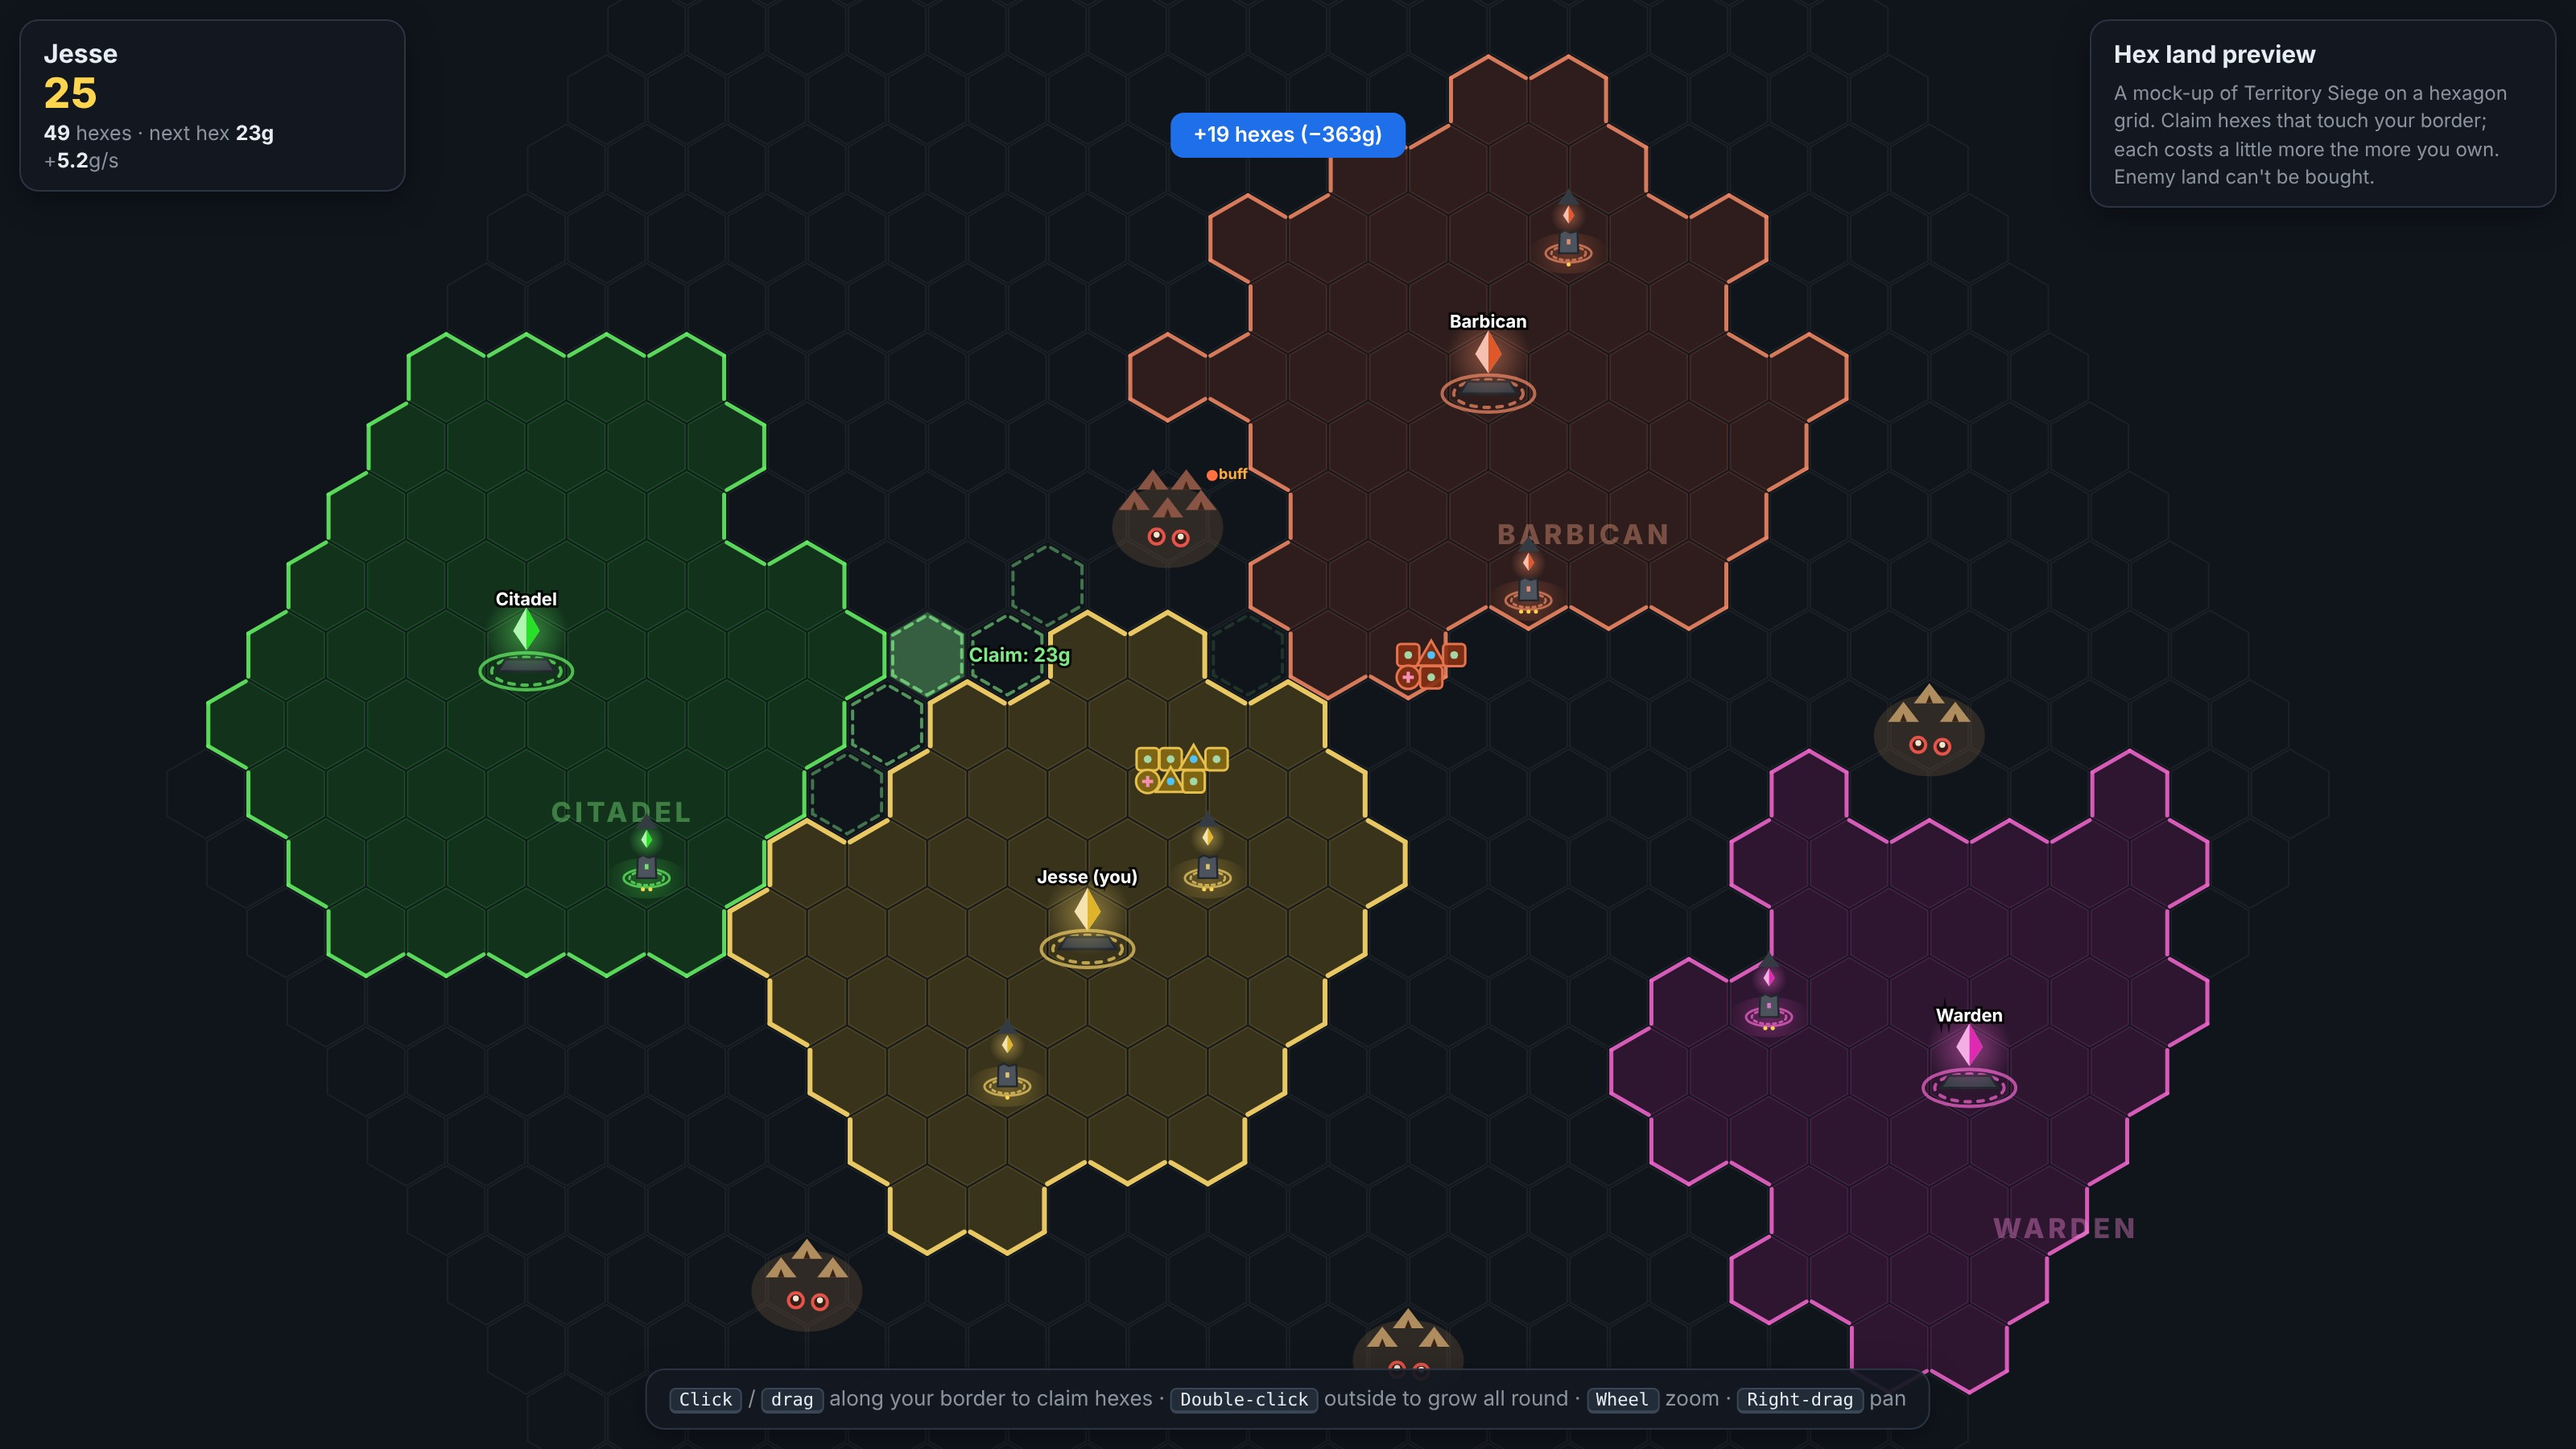
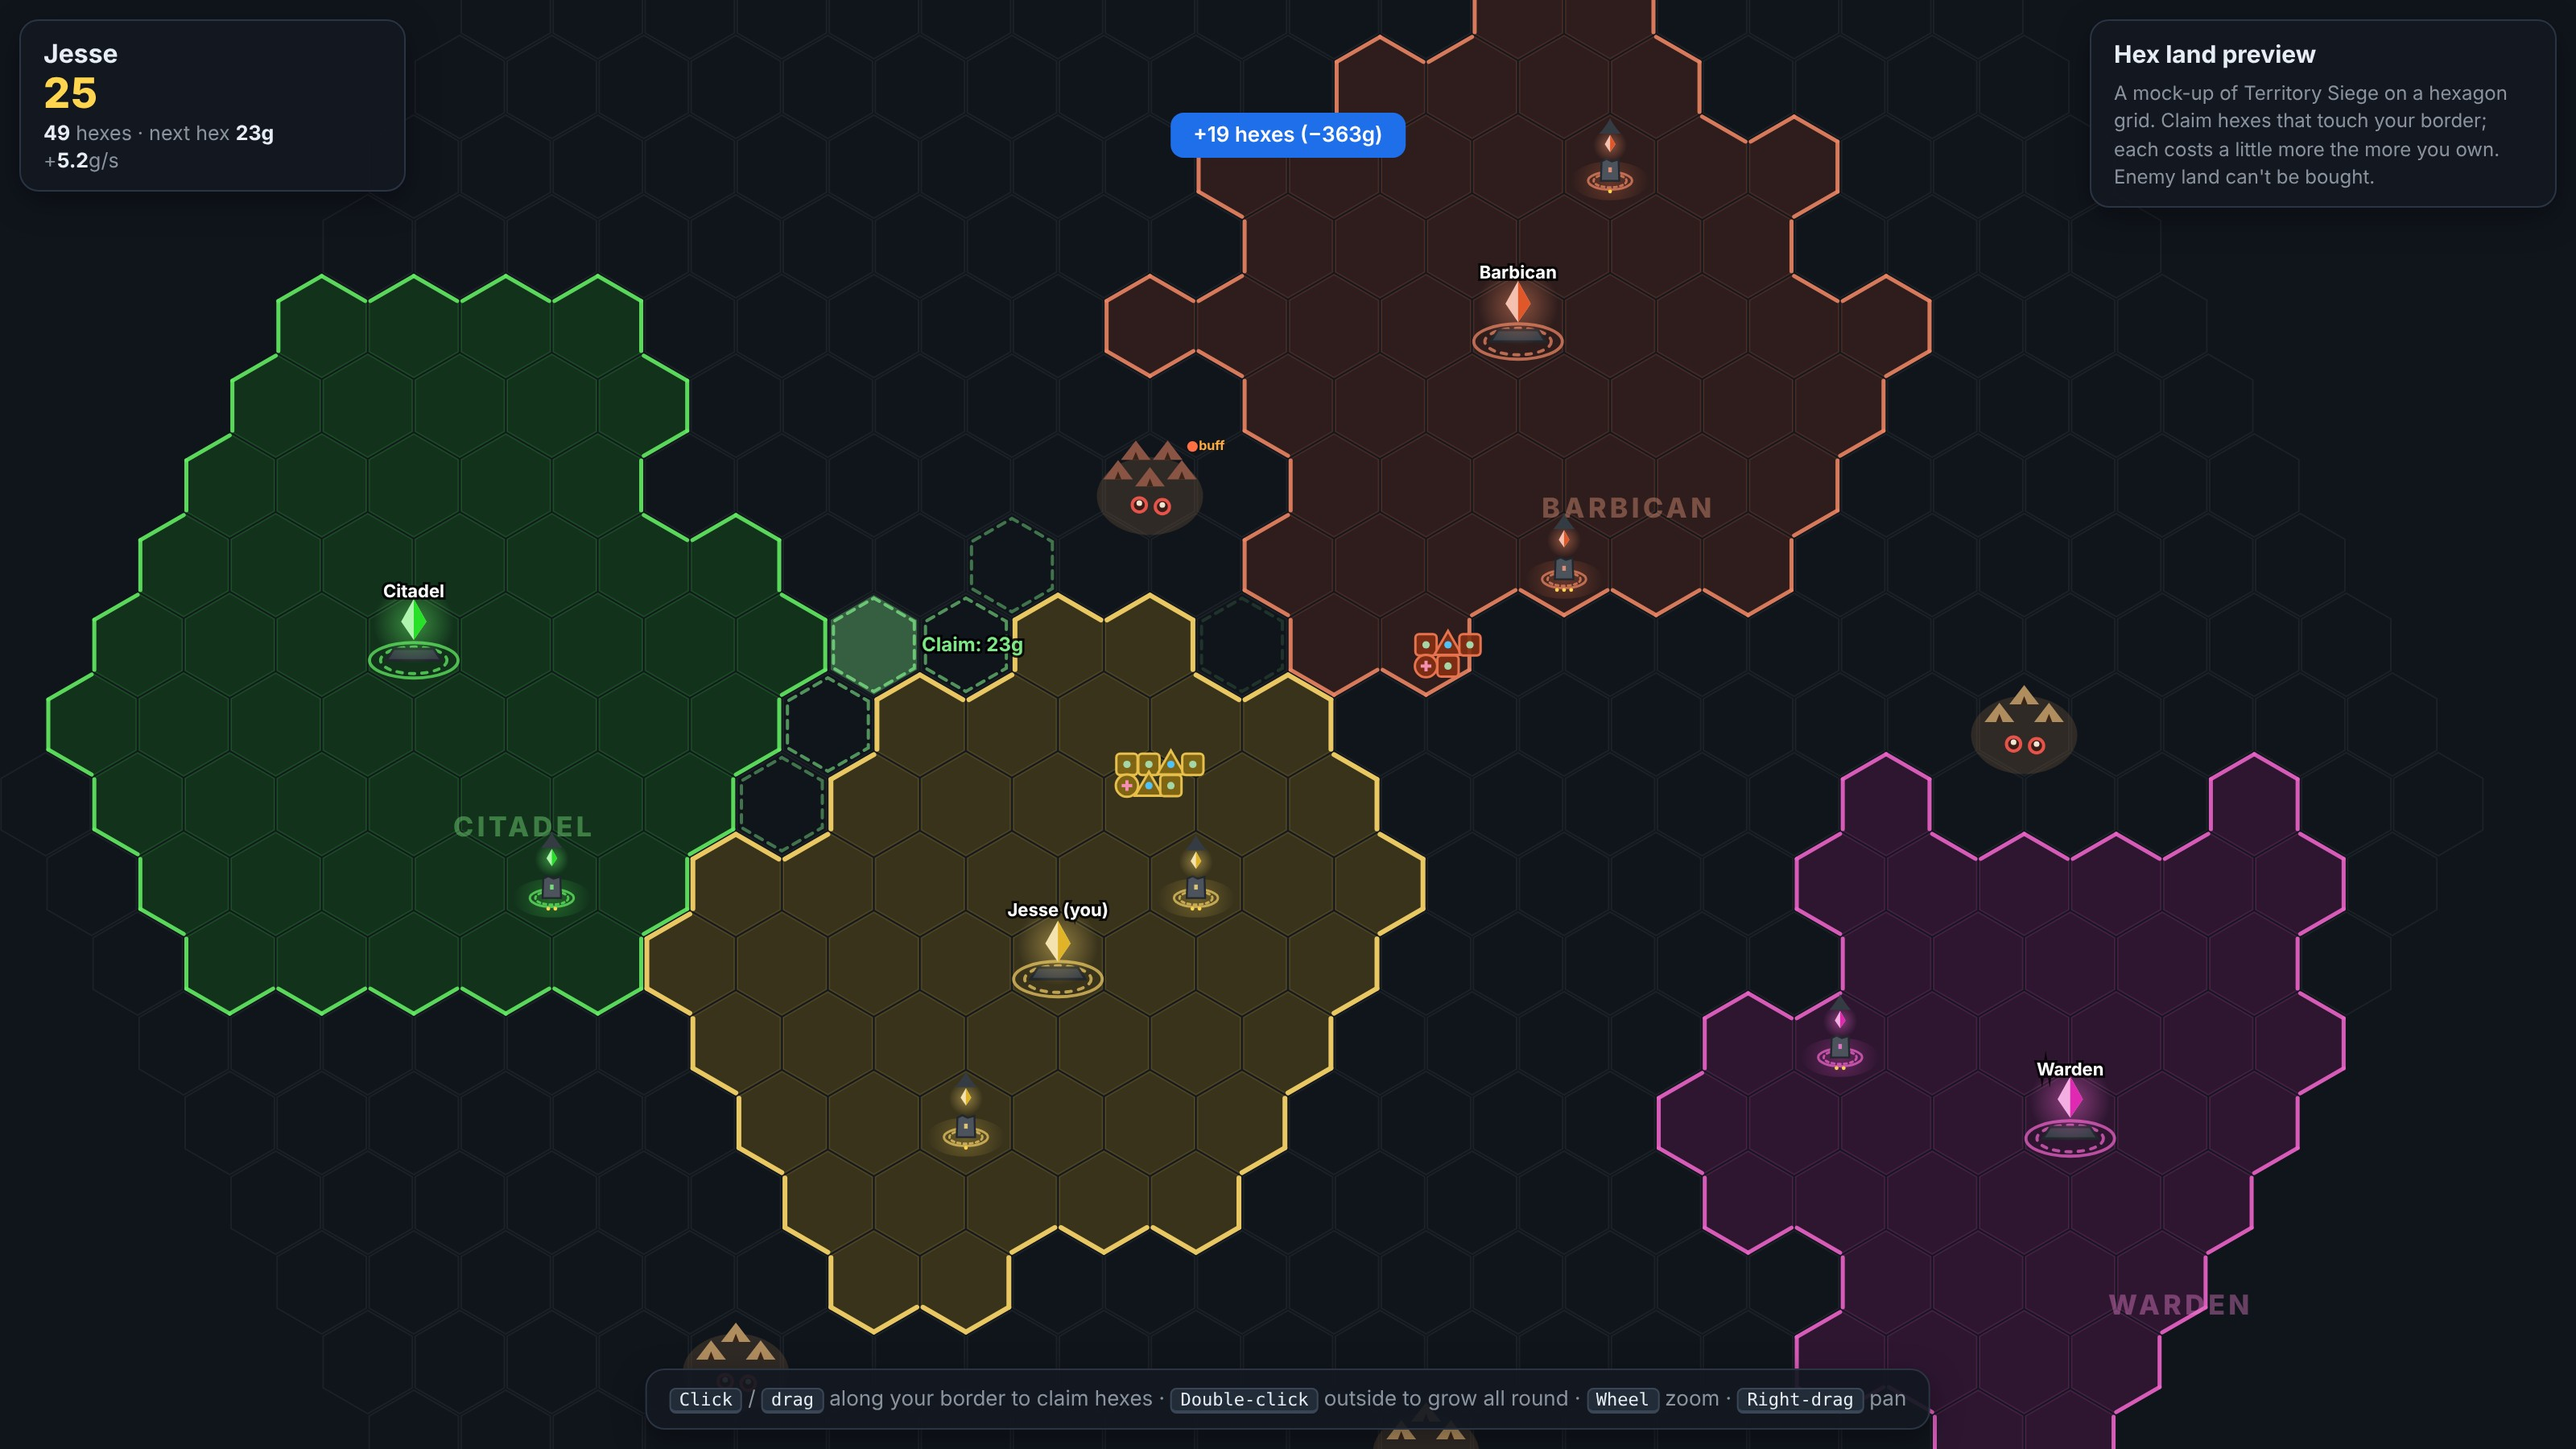
Hex preview: hexes 50% bigger relative to buildings and troops
Claude-Session: https://claude.ai/code/session_01Ryddt8EqVvd3a1HwS4TL86

diff --git a/public/hex-preview.html b/public/hex-preview.html
@@ -34,7 +34,7 @@ const SQ3 = Math.sqrt(3);
 const cv = document.getElementById('c');
 const g = cv.getContext('2d');
 let W = 0, H = 0, DPR = 1;
-const cam = { x: 0, y: 0, size: 23 };   // size = hex radius in screen px
+const cam = { x: 0, y: 0, size: 22 };   // size = hex radius in screen px
 function resize() { DPR = window.devicePixelRatio || 1; W = innerWidth; H = innerHeight; cv.width = W * DPR; cv.height = H * DPR; cv.style.width = W + 'px'; cv.style.height = H + 'px'; }
 addEventListener('resize', resize); resize();
 
@@ -42,7 +42,7 @@ const key = (q, r) => `${q},${r}`;
 const DIRS = [[1, 0], [1, -1], [0, -1], [-1, 0], [-1, 1], [0, 1]];
 const hexes = new Map(); // key -> { q, r, owner }
 for (let q = -R; q <= R; q++) for (let r = Math.max(-R, -q - R); r <= Math.min(R, -q + R); r++) hexes.set(key(q, r), { q, r, owner: 0 });
-const HS = 1.25;           // hex radius in world units: hexes are this much bigger than the buildings and troops on them
+const HS = 1.5;            // hex radius in world units: hexes are this much bigger than the buildings and troops on them
 const toPix = (q, r) => [HS * SQ3 * (q + r / 2), HS * 1.5 * r];
 const hexDist = (a, b) => (Math.abs(a.q - b.q) + Math.abs(a.r - b.r) + Math.abs(a.q + a.r - b.q - b.r)) / 2;
 function pixToHex(x, y) {
